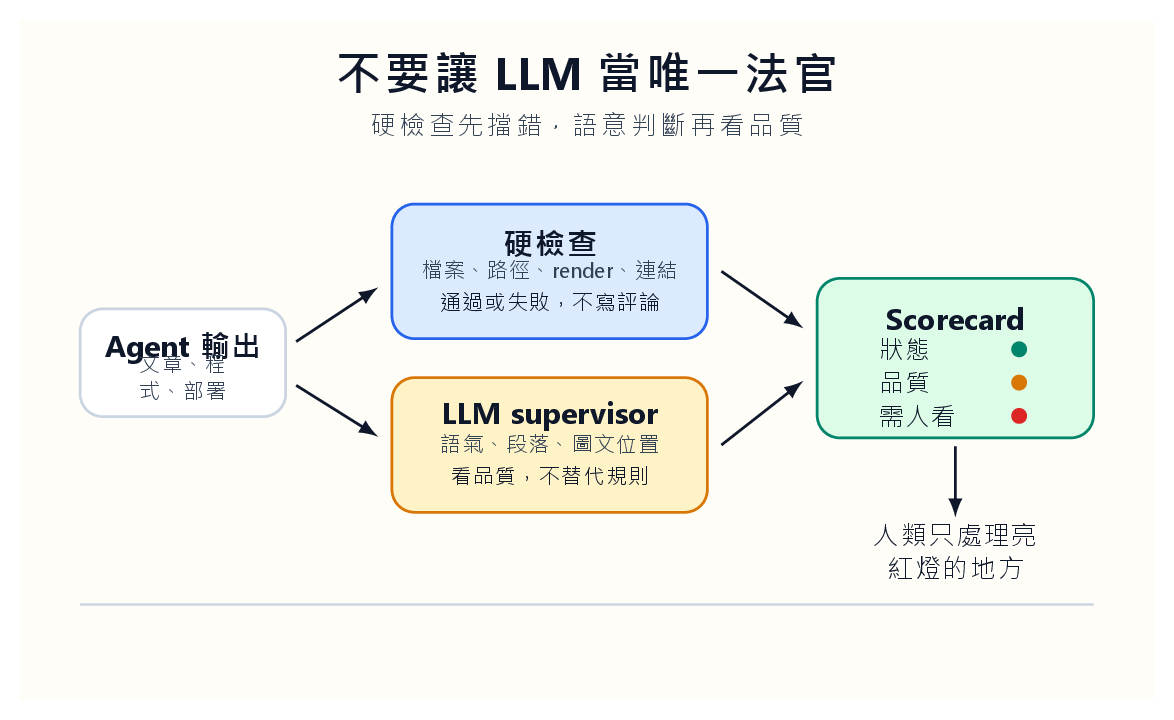
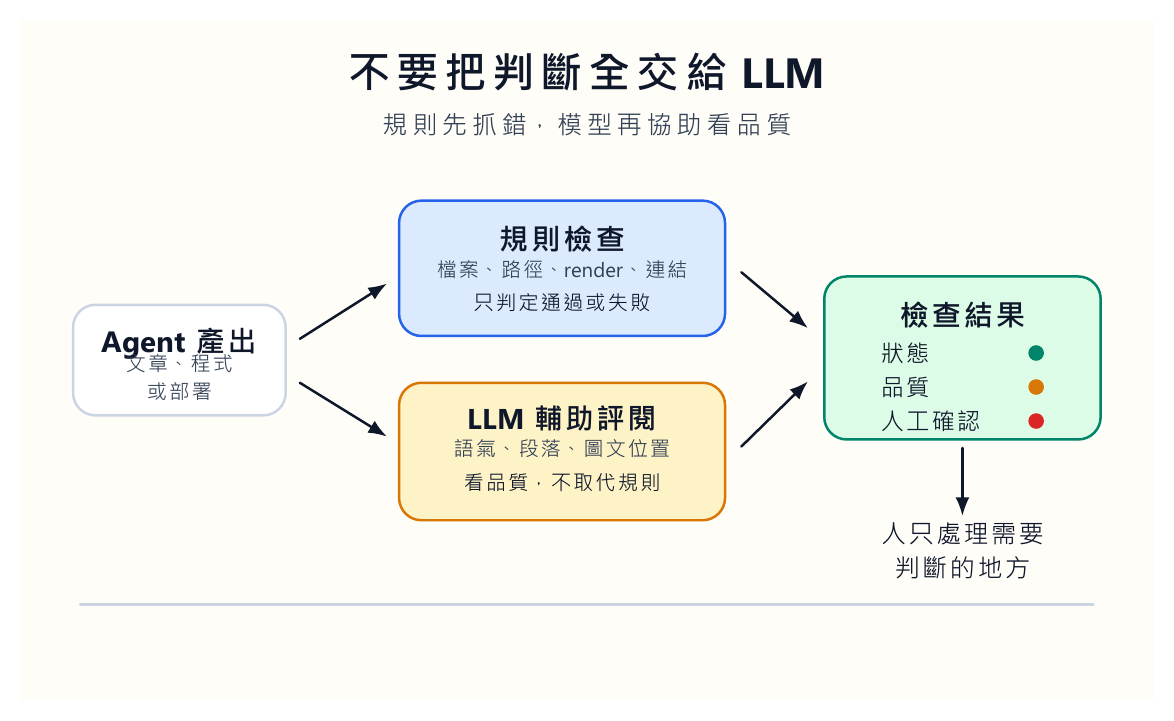
Refine LLM verification diagram wording

diff --git a/knowledge/posts/2026-07-08-ai-agent-verification-harness/two-layer-judge.tex b/knowledge/posts/2026-07-08-ai-agent-verification-harness/two-layer-judge.tex
@@ -4,7 +4,7 @@
 \IfFontExistsTF{Segoe UI}{\setmainfont{Segoe UI}}{\setmainfont{Arial}}
 \IfFontExistsTF{Microsoft JhengHei}{\setCJKmainfont{Microsoft JhengHei}}{\IfFontExistsTF{Noto Sans CJK TC}{\setCJKmainfont{Noto Sans CJK TC}}{\setCJKmainfont{Noto Sans TC}}}
 \IfFontExistsTF{Microsoft JhengHei}{\setCJKsansfont{Microsoft JhengHei}}{\IfFontExistsTF{Noto Sans CJK TC}{\setCJKsansfont{Noto Sans CJK TC}}{\setCJKsansfont{Noto Sans TC}}}
-\xeCJKsetup{CJKglue={\hskip 0.045em plus 0.015em minus 0.005em}, CJKecglue={\hskip 0.08em plus 0.02em}}
+\xeCJKsetup{CJKglue={\hskip 0.075em plus 0.018em minus 0.006em}, CJKecglue={\hskip 0.1em plus 0.02em}}
 \IfFileExists{../../../FontAwesome.otf}{%
   \newfontfamily\FA[Path=../../../]{FontAwesome.otf}%
 }{%
@@ -24,39 +24,39 @@
 \definecolor{red}{HTML}{DC2626}
 \definecolor{line}{HTML}{CBD5E1}
 \begin{document}
-\begin{tikzpicture}[x=1cm,y=1cm,>=Latex]
+\begin{tikzpicture}[x=1cm,y=1cm,>=Latex,line cap=round,line join=round]
 \path[fill=paper] (0,0) rectangle (16,9.6);
-\node[font=\bfseries\fontsize{18}{22}\selectfont,text=navy,align=center,text width=14.6cm] at (8,8.85) {不要讓 LLM 當唯一法官};
-\node[font=\fontsize{10.5}{13}\selectfont,text=muted,align=center,text width=13.8cm] at (8,8.12) {硬檢查先擋錯，語意判斷再看品質};
+\node[font=\bfseries\fontsize{17}{22}\selectfont,text=navy,align=center,text width=14.8cm] at (8,8.86) {不要把判斷全交給 LLM};
+\node[font=\fontsize{10.2}{13.4}\selectfont,text=muted,align=center,text width=13.8cm] at (8,8.12) {規則先抓錯，模型再協助看品質};
 
-\draw[rounded corners=9pt,fill=white,draw=line,line width=1pt] (.85,4.0) rectangle (3.75,5.52);
-\node[font=\bfseries\fontsize{12}{15}\selectfont,text=navy,align=center,text width=2.65cm] at (2.3,4.96) {Agent 輸出};
-\node[font=\fontsize{8.5}{11}\selectfont,text=muted,align=center,text width=2.15cm] at (2.3,4.55) {文章、程式、部署};
-\draw[->,line width=1pt,draw=navy] (3.9,5.06)--(5.05,5.82);
-\draw[->,line width=1pt,draw=navy] (3.9,4.44)--(5.05,3.72);
+\draw[rounded corners=9pt,fill=white,draw=line,line width=1pt] (.75,4.02) rectangle (3.75,5.58);
+\node[font=\bfseries\fontsize{11.8}{15.2}\selectfont,text=navy,align=center,text width=2.65cm] at (2.25,5.03) {Agent 產出};
+\node[font=\fontsize{8.2}{11.2}\selectfont,text=muted,align=center,text width=2.28cm] at (2.25,4.56) {文章、程式\\或部署};
+\draw[->,line width=1pt,draw=navy] (3.95,5.1)--(5.18,5.88);
+\draw[->,line width=1pt,draw=navy] (3.95,4.48)--(5.18,3.72);
 
-\draw[rounded corners=9pt,fill=bluesoft,draw=blue,line width=1pt] (5.25,5.1) rectangle (9.7,7.0);
-\node[font=\bfseries\fontsize{12}{15}\selectfont,text=navy,align=center,text width=3.65cm] at (7.48,6.45) {硬檢查};
-\node[font=\fontsize{8.5}{11}\selectfont,text=muted,align=center,text width=3.65cm] at (7.48,6.07) {檔案、路徑、render、連結};
-\node[font=\fontsize{8.5}{11}\selectfont,text=navy,align=center,text width=3.65cm] at (7.48,5.62) {通過或失敗，不寫評論};
+\draw[rounded corners=9pt,fill=bluesoft,draw=blue,line width=1pt] (5.35,5.14) rectangle (9.95,7.05);
+\node[font=\bfseries\fontsize{11.8}{15.2}\selectfont,text=navy,align=center,text width=3.9cm] at (7.65,6.5) {規則檢查};
+\node[font=\fontsize{8.2}{11.2}\selectfont,text=muted,align=center,text width=3.85cm] at (7.65,6.08) {檔案、路徑、render、連結};
+\node[font=\fontsize{8.2}{11.2}\selectfont,text=navy,align=center,text width=3.85cm] at (7.65,5.61) {只判定通過或失敗};
 
-\draw[rounded corners=9pt,fill=goldsoft,draw=gold,line width=1pt] (5.25,2.65) rectangle (9.7,4.55);
-\node[font=\bfseries\fontsize{12}{15}\selectfont,text=navy,align=center,text width=3.65cm] at (7.48,4.0) {LLM supervisor};
-\node[font=\fontsize{8.5}{11}\selectfont,text=muted,align=center,text width=3.65cm] at (7.48,3.62) {語氣、段落、圖文位置};
-\node[font=\fontsize{8.5}{11}\selectfont,text=navy,align=center,text width=3.65cm] at (7.48,3.17) {看品質，不替代規則};
+\draw[rounded corners=9pt,fill=goldsoft,draw=gold,line width=1pt] (5.35,2.54) rectangle (9.95,4.48);
+\node[font=\bfseries\fontsize{11.5}{14.8}\selectfont,text=navy,align=center,text width=3.9cm] at (7.65,3.98) {LLM 輔助評閱};
+\node[font=\fontsize{8.2}{11.2}\selectfont,text=muted,align=center,text width=3.85cm] at (7.65,3.55) {語氣、段落、圖文位置};
+\node[font=\fontsize{8.2}{11.2}\selectfont,text=navy,align=center,text width=3.85cm] at (7.65,3.07) {看品質，不取代規則};
 
-\draw[->,line width=1pt,draw=navy] (9.9,6.05)--(11.05,5.25);
-\draw[->,line width=1pt,draw=navy] (9.9,3.6)--(11.05,4.5);
-\draw[rounded corners=9pt,fill=greensoft,draw=green,line width=1pt] (11.25,3.7) rectangle (15.15,5.95);
-\node[font=\bfseries\fontsize{12}{15}\selectfont,text=navy,align=center,text width=2.65cm] at (13.2,5.38) {Scorecard};
-\node[font=\fontsize{10}{12}\selectfont,text=navy,anchor=west,align=left,text width=3.45cm] at (12.0,4.95) {狀態};
-\node[font=\fontsize{10}{12}\selectfont,text=navy,anchor=west,align=left,text width=3.45cm] at (12.0,4.48) {品質};
-\node[font=\fontsize{10}{12}\selectfont,text=navy,anchor=west,align=left,text width=3.45cm] at (12.0,4.01) {需人看};
-\fill[green] (14.1,4.95) circle (.11);
-\fill[gold] (14.1,4.48) circle (.11);
-\fill[red] (14.1,4.01) circle (.11);
-\draw[->,line width=1pt,draw=navy] (13.2,3.58)--(13.2,2.58);
-\node[font=\fontsize{10.5}{13}\selectfont,text=navy,align=center,text width=3.2cm] at (13.2,2.1) {人類只處理亮紅燈的地方};
+\draw[->,line width=1pt,draw=navy] (10.18,6.04)--(11.12,5.25);
+\draw[->,line width=1pt,draw=navy] (10.18,3.58)--(11.12,4.5);
+\draw[rounded corners=9pt,fill=greensoft,draw=green,line width=1pt] (11.35,3.68) rectangle (15.25,5.98);
+\node[font=\bfseries\fontsize{11.8}{15.2}\selectfont,text=navy,align=center,text width=3.15cm] at (13.3,5.43) {檢查結果};
+\node[font=\fontsize{9.5}{12.4}\selectfont,text=navy,anchor=west,align=left,text width=3.05cm] at (12.02,4.9) {狀態};
+\node[font=\fontsize{9.5}{12.4}\selectfont,text=navy,anchor=west,align=left,text width=3.05cm] at (12.02,4.42) {品質};
+\node[font=\fontsize{9.5}{12.4}\selectfont,text=navy,anchor=west,align=left,text width=3.05cm] at (12.02,3.94) {人工確認};
+\fill[green] (14.34,4.9) circle (.11);
+\fill[gold] (14.34,4.42) circle (.11);
+\fill[red] (14.34,3.94) circle (.11);
+\draw[->,line width=1pt,draw=navy] (13.3,3.56)--(13.3,2.6);
+\node[font=\fontsize{10.1}{13.4}\selectfont,text=navy,align=center,text width=3.85cm] at (13.3,2.11) {人只處理需要判斷的地方};
 \draw[draw=line,line width=.9pt] (.85,1.35)--(15.15,1.35);
 \end{tikzpicture}
 \end{document}